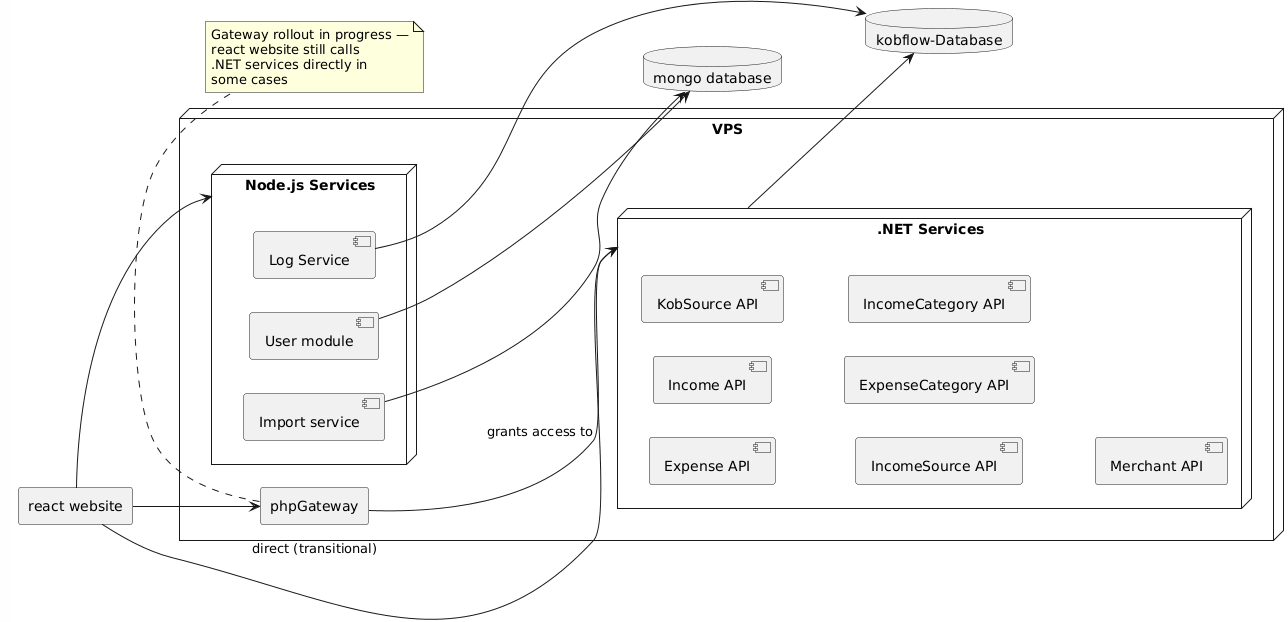
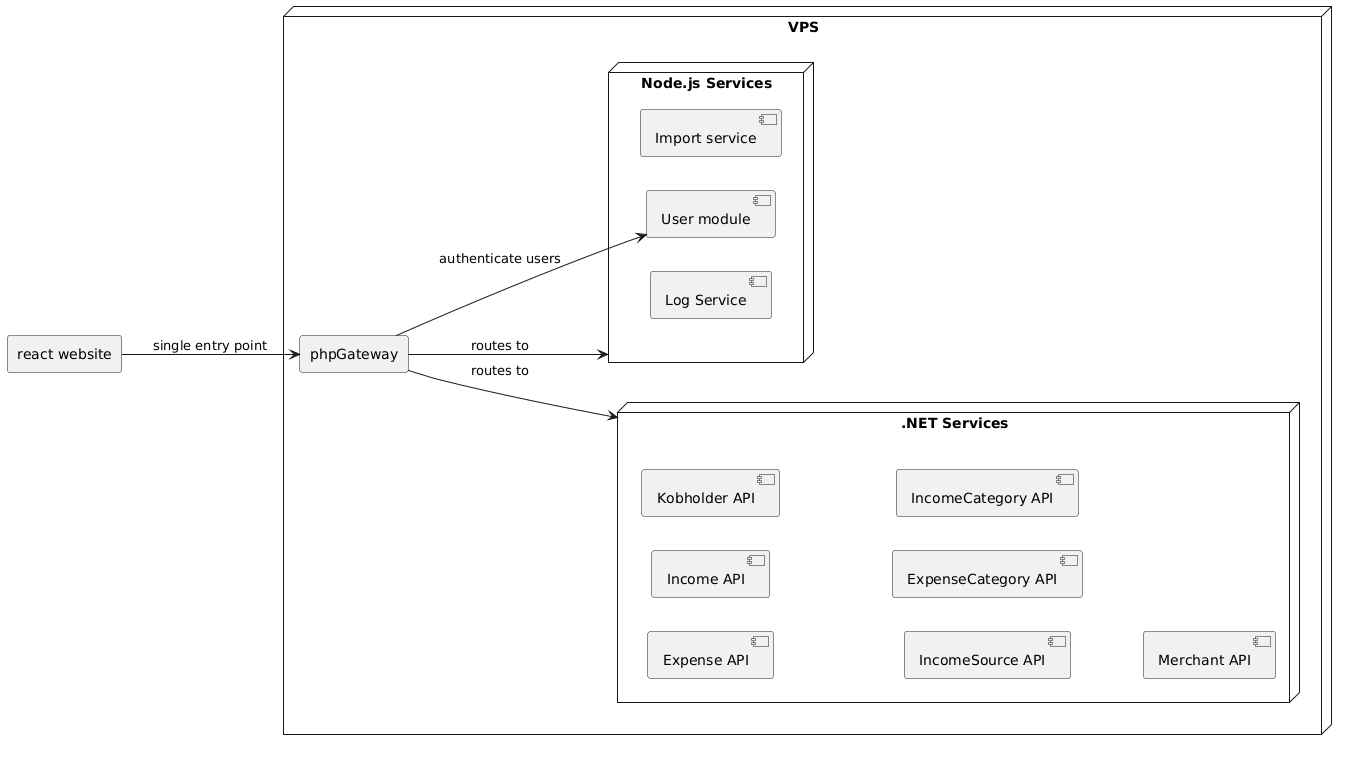
updated things to remvoe kobsource

diff --git a/repos.md b/repos.md
@@ -38,7 +38,6 @@ independent service on the VPS:
   - Expense API
   - Income API
   - Kobholder API
-  - KobSource API
   - IncomeSource API
   - ExpenseCategory API
   - IncomeCategory API
